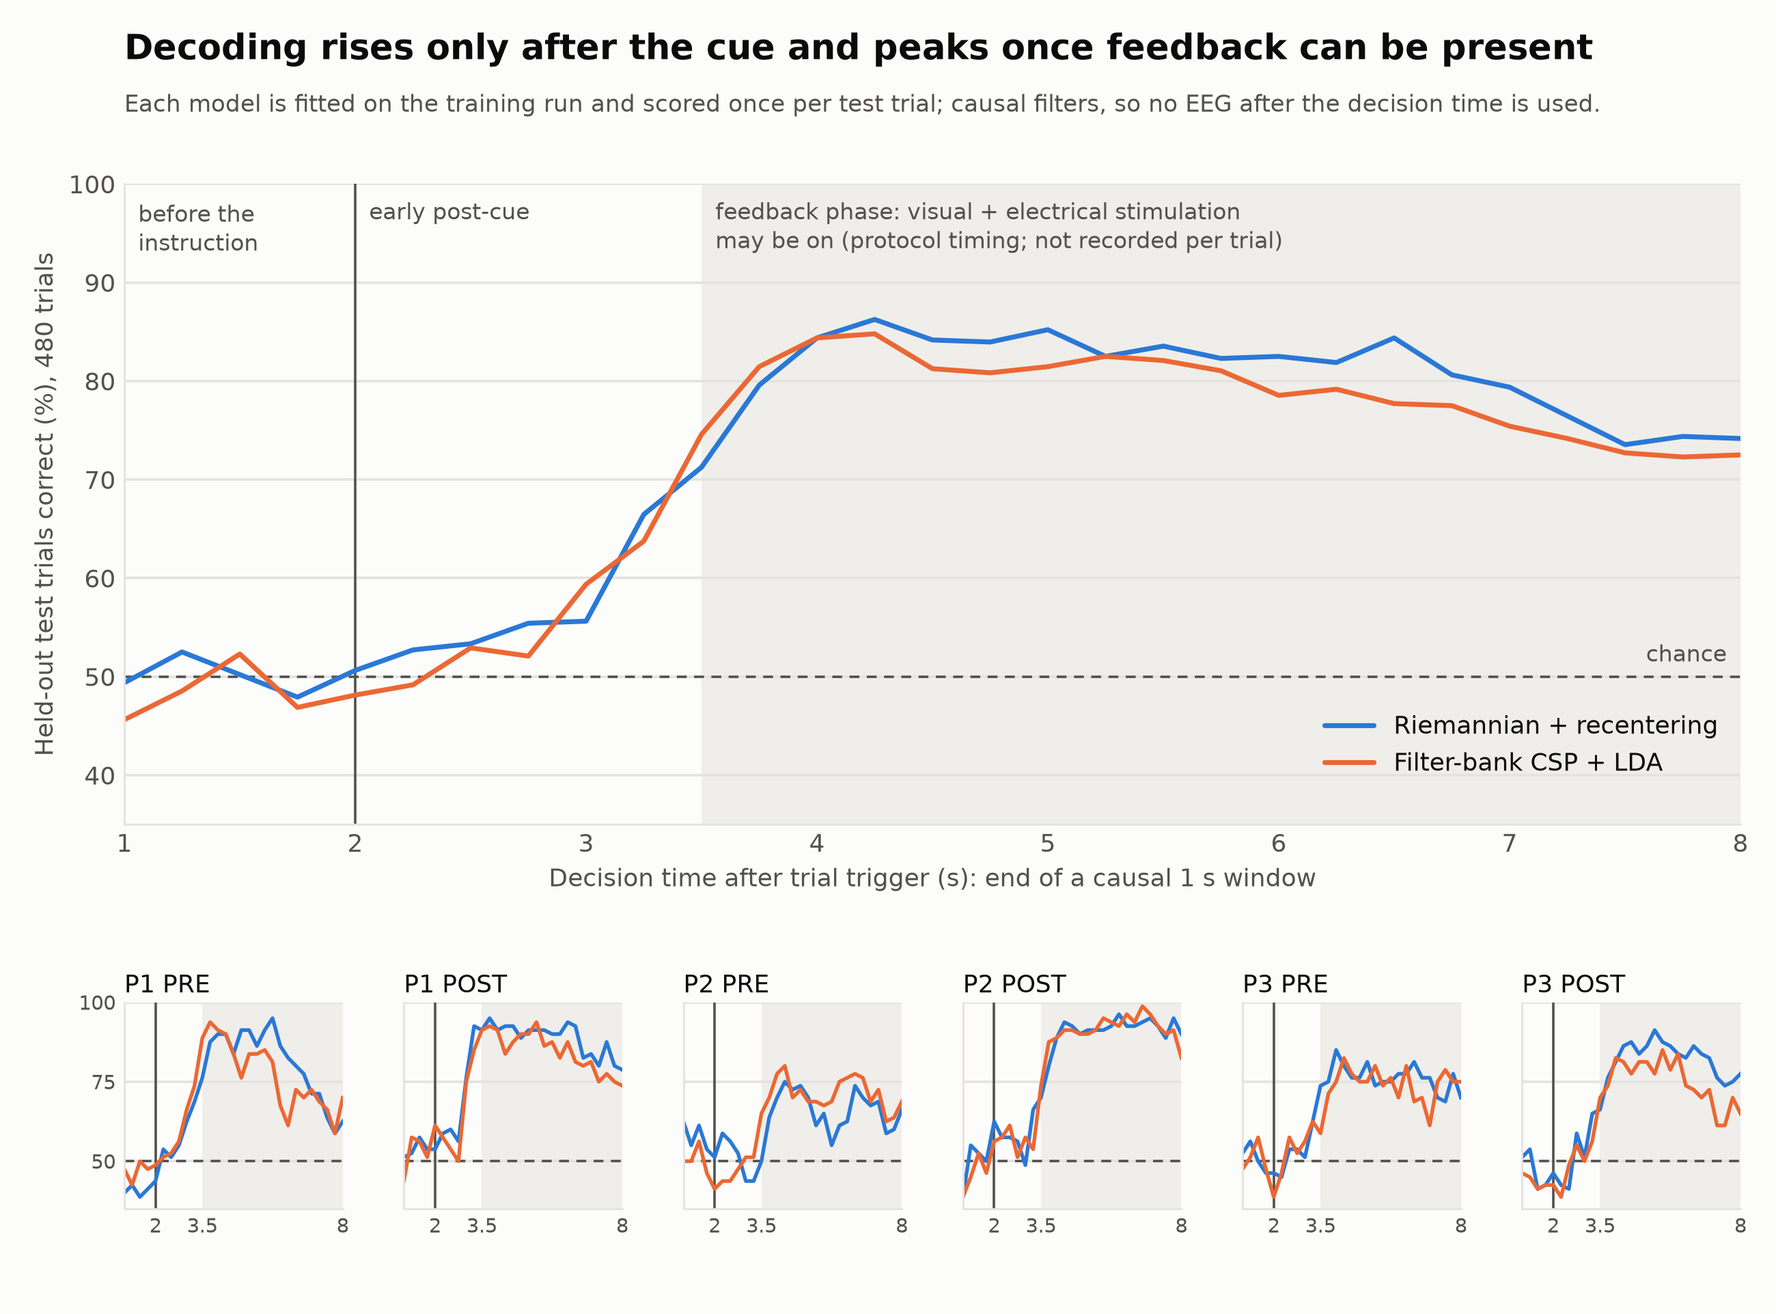
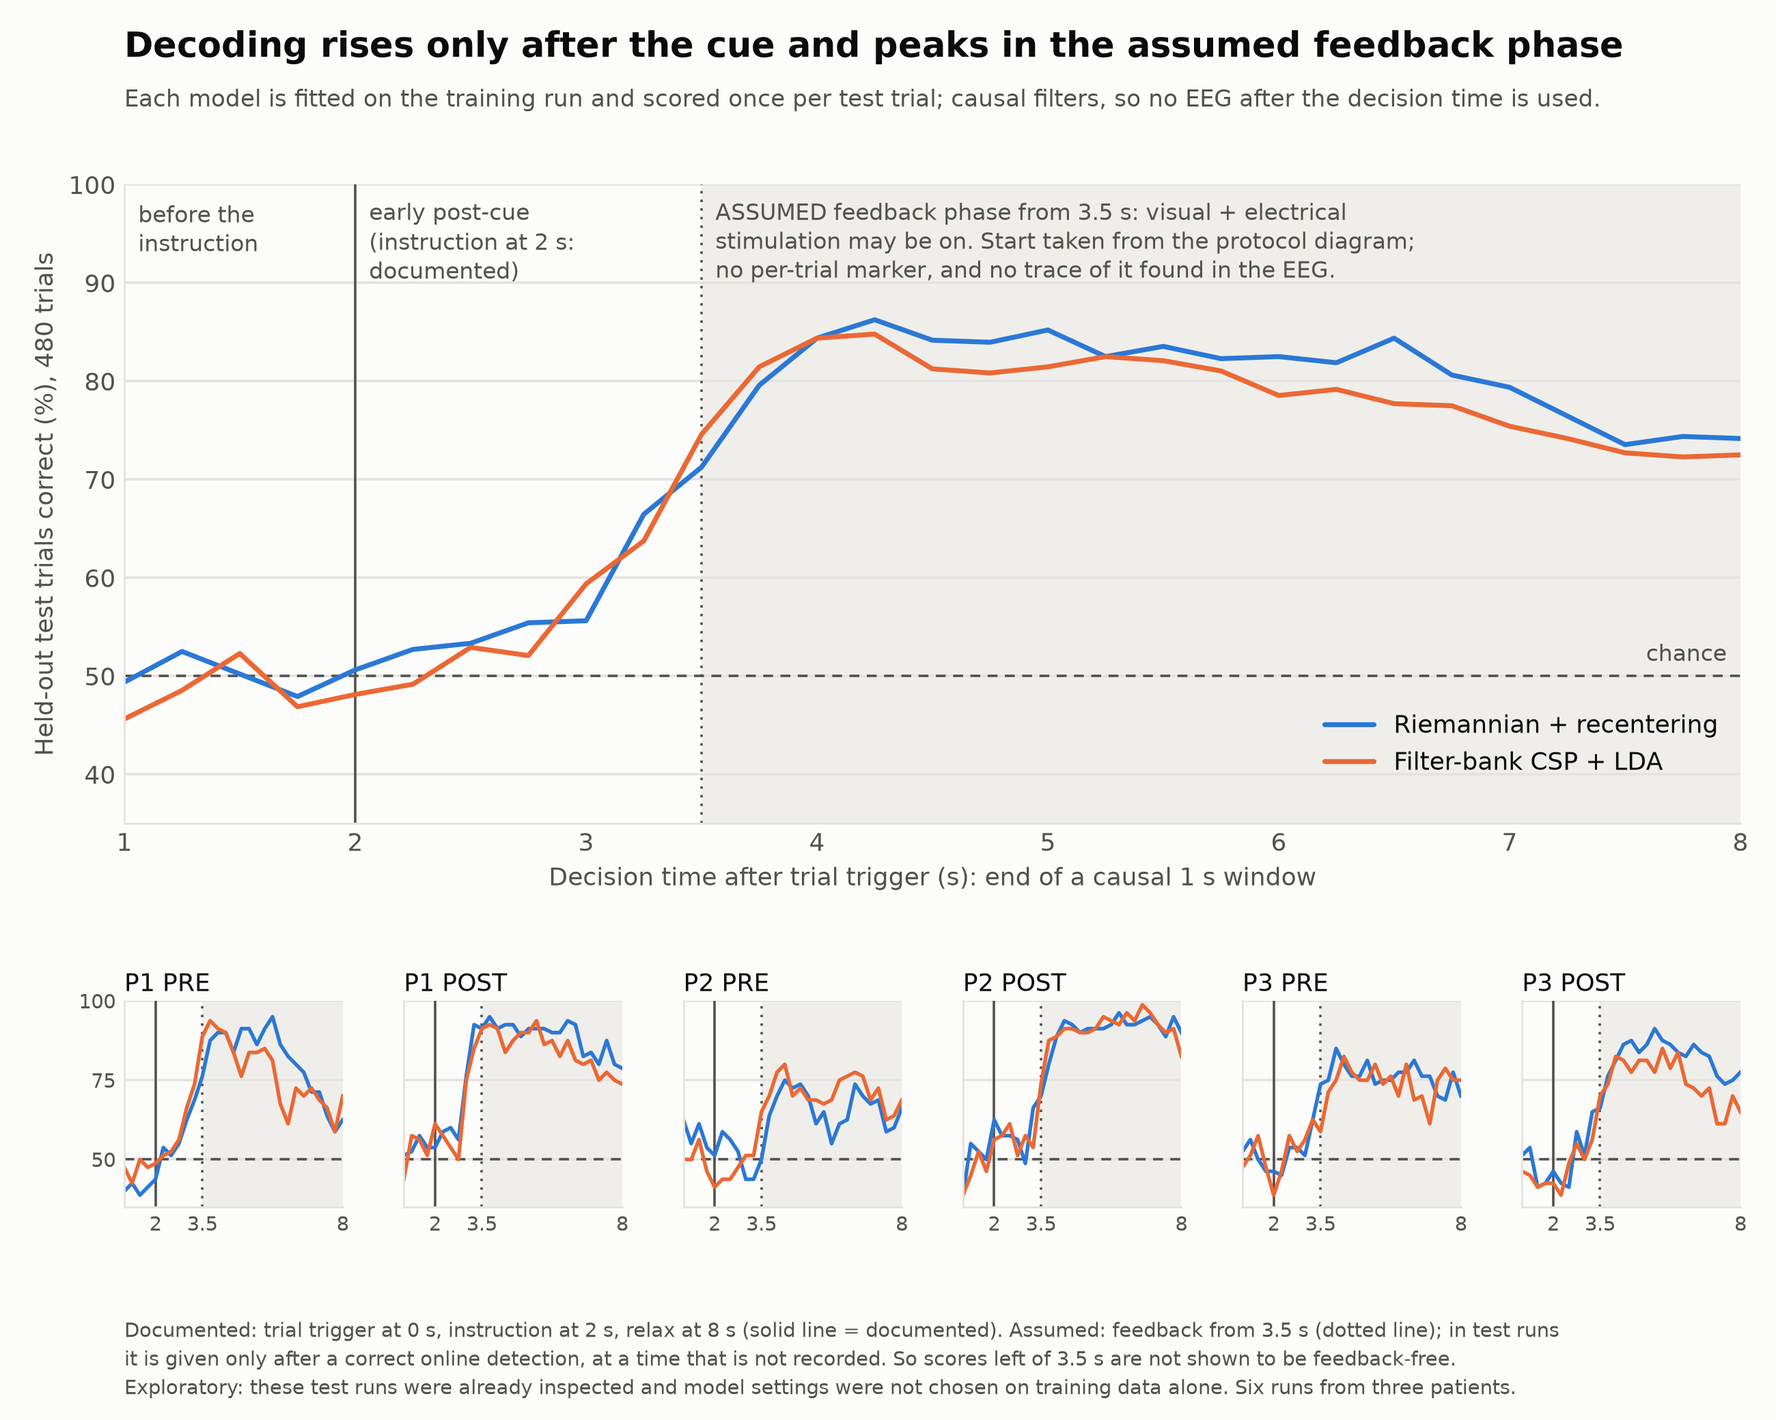
Confirm channel order by global search; probe feedback timing; mark figure assumptions
Add an all-orders search and odd/even trial stability to montage-check.
Add feedback-check: stimulation-harmonic and evoked-response probes, which
find no trace of feedback onset. Mark documented and assumed timings in
the decision-time figure.

diff --git a/stroke_rehab/plotting.py b/stroke_rehab/plotting.py
@@ -70,7 +70,9 @@ def plot_decision_time(csv_path, png_path, *, theme="light", cue_s=2.0, feedback
     def dress(ax, small=False):
         ax.set_facecolor(c["surface"])
         ax.axvspan(feedback_s, 8, color=c["band"], linewidth=0, zorder=0)
+        # Solid: documented in the dataset notes. Dotted: assumed, not recorded.
         ax.axvline(cue_s, color=c["ink2"], linewidth=1)
+        ax.axvline(feedback_s, color=c["ink2"], linewidth=1, linestyle=(0, (1, 2.5)))
         ax.axhline(50, color=c["ink2"], linewidth=1, linestyle=(0, (4, 3)))
         ax.set(xlim=(1, 8), ylim=(35, 100), xticks=range(1, 9),
                yticks=(50, 75, 100) if small else (40, 50, 60, 70, 80, 90, 100))
@@ -80,9 +82,9 @@ def plot_decision_time(csv_path, png_path, *, theme="light", cue_s=2.0, feedback
         ax.spines[["left", "bottom"]].set_color(c["grid"])
         ax.tick_params(colors=c["ink2"], length=0, labelsize=8 if small else 10)
 
-    fig = plt.figure(figsize=(10, 7.4), facecolor=c["surface"])
+    fig = plt.figure(figsize=(10, 8.0), facecolor=c["surface"])
     grid = fig.add_gridspec(2, 6, height_ratios=(3.1, 1), hspace=0.42, wspace=0.28,
-                            left=0.07, right=0.98, top=0.86, bottom=0.08)
+                            left=0.07, right=0.98, top=0.87, bottom=0.15)
     main = fig.add_subplot(grid[0, :])
     dress(main)
     for model, label, color in series:
@@ -91,18 +93,27 @@ def plot_decision_time(csv_path, png_path, *, theme="light", cue_s=2.0, feedback
     main.set_ylabel("Held-out test trials correct (%), 480 trials", color=c["ink2"])
     main.set_xlabel("Decision time after trial trigger (s): end of a causal 1 s window",
                     color=c["ink2"])
-    for x, text in ((1.06, "before the\ninstruction"), (cue_s + 0.06, "early post-cue"),
-                    (feedback_s + 0.06, "feedback phase: visual + electrical stimulation\n"
-                     "may be on (protocol timing; not recorded per trial)")):
+    for x, text in ((1.06, "before the\ninstruction"),
+                    (cue_s + 0.06, "early post-cue\n(instruction at 2 s:\ndocumented)"),
+                    (feedback_s + 0.06, "ASSUMED feedback phase from 3.5 s: visual + electrical\n"
+                     "stimulation may be on. Start taken from the protocol diagram;\n"
+                     "no per-trial marker, and no trace of it found in the EEG.")):
         main.text(x, 98.5, text, color=c["ink2"], fontsize=9, va="top", linespacing=1.3)
     main.text(7.94, 51, "chance", color=c["ink2"], fontsize=9, ha="right", va="bottom")
     main.legend(loc="lower right", frameon=False, fontsize=10, labelcolor=c["ink"],
                 bbox_to_anchor=(1.0, 0.04))
-    fig.text(0.07, 0.955, "Decoding rises only after the cue and peaks once feedback can be present",
+    fig.text(0.07, 0.96, "Decoding rises only after the cue and peaks in the assumed feedback phase",
              color=c["ink"], fontsize=14, fontweight="bold")
-    fig.text(0.07, 0.915, "Each model is fitted on the training run and scored once per test trial; "
+    fig.text(0.07, 0.925, "Each model is fitted on the training run and scored once per test trial; "
              "causal filters, so no EEG after the decision time is used.",
              color=c["ink2"], fontsize=9.5)
+    fig.text(0.07, 0.012,
+             "Documented: trial trigger at 0 s, instruction at 2 s, relax at 8 s (solid line = documented). "
+             "Assumed: feedback from 3.5 s (dotted line); in test runs\nit is given only after a correct "
+             "online detection, at a time that is not recorded. So scores left of 3.5 s are not shown to be "
+             "feedback-free.\nExploratory: these test runs were already inspected and model settings were "
+             "not chosen on training data alone. Six runs from three patients.",
+             color=c["ink2"], fontsize=8, va="bottom", linespacing=1.45)
     for i, session in enumerate((p, s) for p in ("P1", "P2", "P3") for s in ("pre", "post")):
         ax = fig.add_subplot(grid[1, i])
         dress(ax, small=True)

diff --git a/stroke_rehab/timing.py b/stroke_rehab/timing.py
@@ -1,0 +1,82 @@
+"""Can the recordings show when feedback starts? Two label-free probes per file.
+
+The files hold no stimulation marker. The paper states the stimulator runs at
+50 Hz, so with the 50 Hz notch already applied its trace could only survive at
+harmonics: 100 Hz, and 150/200 Hz folded to 106/56 Hz at 256 Hz sampling.
+Probe 1 asks whether power at those lines changes between the pre-instruction
+rest and the nominal feedback phase. Probe 2 asks whether the trial-averaged
+EEG shows a response locked to the nominal feedback start, as it does to the
+instruction. A null result does not mean stimulation was absent or late.
+"""
+from pathlib import Path
+import csv
+
+import numpy as np
+from scipy.signal import butter, sosfiltfilt
+
+from .data import read_recording, session_paths
+
+STIMULATION_LINES_HZ = {"line_100hz": 100.0, "line_106hz_alias_of_150": 106.0,
+                        "line_56hz_alias_of_200": 56.0}
+REST_S = (0.5, 2.0)        # after the attention sound, before the instruction
+FEEDBACK_S = (4.0, 8.0)    # inside the documented feedback phase
+EVENTS_S = {"instruction_2p0s": 2.0, "nominal_feedback_3p5s": 3.5, "relax_8p0s": 8.0}
+EVOKED_SPAN_S = 0.75
+
+
+def _bandpass(recording, low, high):
+    sos = butter(4, (low, high), btype="bandpass", fs=recording.fs, output="sos")
+    return sosfiltfilt(sos, recording.signal, axis=0)
+
+
+def line_change_db(recording, hz, *, half_width=1.0):
+    """Median over trials and channels: feedback-phase power relative to rest (dB)."""
+    power = _bandpass(recording, hz - half_width, hz + half_width) ** 2
+    fs = recording.fs
+    mean = lambda onset, span: power[onset + round(span[0] * fs):
+                                     onset + round(span[1] * fs)].mean(axis=0)
+    ratio = [mean(o, FEEDBACK_S) / mean(o, REST_S) for o in recording.onsets]
+    return float(np.median(10 * np.log10(ratio)))
+
+
+def evoked_ratios(recording):
+    """Size of the trial-median 1-12 Hz response after each event, relative to rest.
+
+    Values near 1 mean nothing is time-locked to that event. Trials too close
+    to the end of the file for the last window are left out of that window.
+    """
+    filtered = _bandpass(recording, 1.0, 12.0)
+    fs = recording.fs
+
+    def size(start, stop):
+        lo, hi = round(start * fs), round(stop * fs)
+        epochs = [filtered[o + lo:o + hi] - filtered[o + round(REST_S[0] * fs):
+                                                     o + round(REST_S[1] * fs)].mean(axis=0)
+                  for o in recording.onsets if o + hi <= len(filtered)]
+        return float(np.sqrt(np.mean(np.median(epochs, axis=0) ** 2)))
+
+    rest = size(REST_S[1] - EVOKED_SPAN_S, REST_S[1])
+    return {name: size(t, t + EVOKED_SPAN_S) / rest for name, t in EVENTS_S.items()}
+
+
+def run_feedback_check(data_root, output_file):
+    rows = []
+    for patient, stage, train_path, test_path in session_paths(data_root):
+        for run, path in (("training", train_path), ("test", test_path)):
+            recording = read_recording(path)
+            row = dict(patient=patient, session=stage, run=run)
+            row |= {f"{name}_feedback_vs_rest_db": round(line_change_db(recording, hz), 2)
+                    for name, hz in STIMULATION_LINES_HZ.items()}
+            row |= {f"evoked_{name}_vs_rest": round(value, 2)
+                    for name, value in evoked_ratios(recording).items()}
+            rows.append(row)
+            print(f"{patient} {stage} {run}: " + ", ".join(
+                f"{k.split('_feedback')[0].split('_vs_rest')[0]} {v}"
+                for k, v in list(row.items())[3:]), flush=True)
+    path = Path(output_file)
+    path.parent.mkdir(parents=True, exist_ok=True)
+    with path.open("w", newline="") as stream:
+        writer = csv.DictWriter(stream, fieldnames=list(rows[0]))
+        writer.writeheader()
+        writer.writerows(rows)
+    return rows

diff --git a/stroke_rehab/montage.py b/stroke_rehab/montage.py
@@ -51,13 +51,13 @@ def _distances(layout):
     return np.linalg.norm(xy[:, None] - xy[None], axis=-1)
 
 
-def median_trial_correlation(recording, band=(8.0, 30.0)):
+def median_trial_correlation(recording, band=(8.0, 30.0), trials=slice(None)):
     """Median over trials of the channel correlation matrix (robust to artefacts)."""
     sos = butter(4, band, btype="bandpass", fs=recording.fs, output="sos")
     filtered = sosfiltfilt(sos, recording.signal, axis=0)
     span = slice(recording.fs, 8 * recording.fs)
     return np.median([np.corrcoef(filtered[onset:][span].T)
-                      for onset in recording.onsets], axis=0)
+                      for onset in recording.onsets[trials]], axis=0)
 
 
 def layout_fit(correlation, layout, *, permutations=2000, seed=27):
@@ -100,6 +100,45 @@ def swaps_improving_fit(correlation, layout):
     return int(better)
 
 
+def mirrored(layout):
+    """Column order of the left-right mirror image of a layout."""
+    position = {GRID[name]: i for i, name in enumerate(layout)}
+    return [position[-GRID[name][0], GRID[name][1]] for name in layout]
+
+
+def global_search(correlation, layout, *, restarts=20, seed=27):
+    """Search all channel orders for the best fit, starting from random orders.
+
+    Each restart swaps channel pairs for as long as a swap improves the fit.
+    Returns whether the best order found is the stated one, its mirror image
+    (which fits identically), or something else, with that order's fit.
+    """
+    upper = np.triu_indices(len(layout), 1)
+    distance = _distances(layout)
+    fit = lambda order: spearmanr(distance[np.ix_(order, order)][upper],
+                                  correlation[upper]).statistic
+    rng = np.random.default_rng(seed)
+    best_order, best = None, np.inf
+    for _ in range(restarts):
+        order = rng.permutation(len(layout))
+        current = fit(order)
+        while True:
+            options = []
+            for i, j in combinations(range(len(layout)), 2):
+                trial = order.copy()
+                trial[[i, j]] = order[[j, i]]
+                options.append((fit(trial), trial))
+            value, candidate = min(options, key=lambda item: item[0])
+            if value >= current - 1e-12:
+                break
+            order, current = candidate, value
+        if current < best:
+            best_order, best = order, current
+    found = ("stated" if np.array_equal(best_order, np.arange(len(layout)))
+             else "mirror" if np.array_equal(best_order, mirrored(layout)) else "other")
+    return found, float(best)
+
+
 def notch_hz(recording):
     """Mains notch already applied to the file: 50 or 60 Hz, whichever is emptier."""
     frequency, density = welch(recording.signal[recording.onsets[0]:], recording.fs,
@@ -123,6 +162,14 @@ def run_montage_check(data_root, output_file, *, permutations=2000, seed=27):
             row["best_layout"] = min(LAYOUTS, key=lambda k: row[f"{k}_rho"])
             row["swaps_improving_best_layout"] = swaps_improving_fit(
                 correlation, LAYOUTS[row["best_layout"]])
+            assigned = layout_for(path)
+            found, best = global_search(correlation, assigned, seed=seed)
+            row["global_search_finds"] = found
+            row["global_search_rho"] = round(best, 3)
+            halves = [layout_fit(median_trial_correlation(recording, trials=half),
+                                 assigned, permutations=1)[0]
+                      for half in (slice(0, None, 2), slice(1, None, 2))]
+            row["odd_even_trial_rho"] = "/".join(f"{h:.3f}" for h in halves)
             row["notch_hz"] = notch_hz(recording)
             row["assumed_layout"] = FILE_LAYOUT.get(Path(path).stem, "paper")
             # Smallest 8-30 Hz amplitude marks the side nearest the reference

diff --git a/tests/test_timing.py b/tests/test_timing.py
@@ -1,0 +1,31 @@
+import numpy as np
+
+from stroke_rehab.data import Recording
+from stroke_rehab.timing import evoked_ratios, line_change_db
+
+
+def _recording(add_line=False, add_evoked=False, fs=256, trials=20):
+    rng = np.random.default_rng(4)
+    onsets = fs * (2 + 10 * np.arange(trials))
+    signal = rng.normal(size=(onsets[-1] + 10 * fs, 4))
+    time = np.arange(8 * fs) / fs
+    for onset in onsets:
+        if add_line:  # 100 Hz stimulation harmonic switched on at 3.5 s
+            signal[onset:onset + 8 * fs] += (3 * np.sin(2 * np.pi * 100 * time)
+                                             * (time >= 3.5))[:, None]
+        if add_evoked:  # a 5 Hz burst locked to 3.5 s
+            signal[onset:onset + 8 * fs] += (4 * np.sin(2 * np.pi * 5 * (time - 3.5))
+                                             * ((time >= 3.5) & (time < 4.0)))[:, None]
+    return Recording(signal, np.tile([1, -1], trials // 2), onsets, fs)
+
+
+def test_line_probe_detects_a_stimulation_harmonic_only_when_present():
+    assert abs(line_change_db(_recording(), 100.0)) < 1.5
+    assert line_change_db(_recording(add_line=True), 100.0) > 10
+
+
+def test_evoked_probe_is_specific_to_the_event_that_has_a_response():
+    quiet = evoked_ratios(_recording())
+    assert all(0.4 < value < 2.5 for value in quiet.values())
+    locked = evoked_ratios(_recording(add_evoked=True))
+    assert locked["nominal_feedback_3p5s"] > 5 * locked["instruction_2p0s"]

diff --git a/tests/test_riemann.py b/tests/test_riemann.py
@@ -1,7 +1,8 @@
 import numpy as np
 
 from stroke_rehab.data import Recording
-from stroke_rehab.montage import GRID, LAYOUTS, layout_fit, layout_for
+from stroke_rehab.montage import (GRID, LAYOUTS, global_search, layout_fit, layout_for,
+                                  mirrored)
 from stroke_rehab.riemann import (RecenteredTangentSpace, filtered_trials, geodesic,
                                   riemann_mean, window_covariances)
 
@@ -63,3 +64,14 @@ def test_layout_fit_prefers_the_generating_layout():
     assert layout_for("x/P2_post_test.mat") == LAYOUTS["paper"]
     assert layout_for("x/P1_pre_test.mat").index("C3") == 6
     assert all(sorted(layout) == sorted(set(layout)) for layout in LAYOUTS.values())
+
+
+def test_global_search_recovers_a_scrambled_order_up_to_mirror():
+    layout = LAYOUTS["paper"]
+    xy = np.array([GRID[name] for name in layout], dtype=float)
+    correlation = np.exp(-np.linalg.norm(xy[:, None] - xy[None], axis=-1) / 3)
+    assert global_search(correlation, layout, restarts=6)[0] in ("stated", "mirror")
+    flip = mirrored(layout)
+    assert [layout[i] for i in flip][:5] == ["FC6", "FC2", "FCz", "FC1", "FC5"]
+    scrambled = np.random.default_rng(3).permutation(16)
+    assert global_search(correlation[np.ix_(scrambled, scrambled)], layout, restarts=6)[0] == "other"

diff --git a/stroke_rehab/cli.py b/stroke_rehab/cli.py
@@ -54,6 +54,8 @@ def main(argv=None):
              "results/model_comparison.csv"),
             ("decision-time", "Causal accuracy against decision time, both models",
              "results/decision_time.csv"),
+            ("feedback-check", "Look for a stimulation trace or evoked response at feedback onset",
+             "results/feedback_timing_check.csv"),
             ("lateralize", "Descriptive C3/C4 beta change with per-file channel layout",
              "results/lateralization.csv"),
             ("transfer", "Decode each session with a model from the patient's other session",
@@ -164,6 +166,9 @@ def main(argv=None):
     elif args.command == "decision-time":
         from .comparison import run_decision_time
         run_decision_time(args.data_dir, args.output)
+    elif args.command == "feedback-check":
+        from .timing import run_feedback_check
+        run_feedback_check(args.data_dir, args.output)
     elif args.command == "lateralize":
         from .lateralization import run_lateralization
         print(f"Wrote {len(run_lateralization(args.data_dir, args.output))} rows")

diff --git a/README.md b/README.md
@@ -275,6 +275,7 @@ at 2 s. Feedback onset is unknown, including for the shorter window.
 
 ```bash
 stroke-rehab montage-check       # results/montage_check.csv
+stroke-rehab feedback-check      # results/feedback_timing_check.csv
 stroke-rehab compare             # results/model_comparison.csv
 stroke-rehab decision-time       # results/decision_time.csv
 stroke-rehab plot-decision-time  # results/decision_time.png (--theme dark for slides)
@@ -328,9 +329,33 @@ are fitted on the training run and scored on the test run every 0.25 s.
 | Filter-bank CSP | 48.1% | 59.4% | 74.6% | 84.8% | 77.7% | 72.5% |
 | Riemannian | 50.6% | 55.6% | 71.2% | 86.2% | 84.4% | 74.2% |
 
-Both models are at chance up to the instruction at 2 s. A 65–95 Hz power
-check found no consistent stimulation trace from which feedback onset could be
-timed, so the interval before 3.5 s is labelled "early post-cue".
+Both models are at chance up to the instruction at 2 s. The figure marks
+what is documented with a solid line (instruction at 2 s) and what is assumed
+with a dotted line (feedback from 3.5 s), and repeats both in its footer.
+
+### Feedback timing: not recoverable from the recordings
+
+`stroke-rehab feedback-check` asks, without labels, whether each file shows
+when stimulation starts. Neither probe finds it.
+
+- **Stimulation lines.** The paper gives a 50 Hz stimulator. The 50 Hz notch
+  removes its fundamental, so a trace could only survive at harmonics: 100 Hz,
+  and 150/200 Hz folded to 106/56 Hz at this sampling rate. Power at those
+  lines in the feedback phase (4–8 s) differs from rest (0.5–2 s) by −0.8 to
+  +2.0 dB across all twelve files, with no consistent sign. The strong 106 Hz
+  line present in ten files is constant through the trial, so it is mains
+  interference, not stimulation.
+- **Evoked response.** The trial-median 1–12 Hz response in the 0.75 s after
+  the instruction is 1.2 to 3.0 times rest in the P1 and P2 files, and after
+  the relax cue up to 5.7 times in P1. After the assumed feedback start at
+  3.5 s it is 0.7 to 1.3 times rest in every file: nothing is time-locked there.
+
+This does not show that feedback was absent or late; it shows the 3.5 s start
+cannot be confirmed from the data. It stays an assumption from
+`DatasetInformation.pdf` until the organizer supplies stimulation timestamps.
+In test runs feedback is also conditional on the online classifier, at a time
+that is not recorded, so the interval before 3.5 s is labelled "early
+post-cue", never "feedback-free".
 
 ### Channel order differs between files
 
@@ -352,6 +377,11 @@ correlation (8–30 Hz, median over trials; no labels are used) for each layout.
   13 and 14 (CP5, CP1) fit clearly better exchanged; C3 and C4 are unaffected.
 - **Order, not only electrode set:** with the layout assigned to each file,
   none of the 120 possible two-channel swaps improves the fit in any file.
+- **Search over all orders:** starting from 20 random channel orders per file
+  and swapping pairs while the fit improves, the best order found is the
+  assigned one or its mirror image in all twelve files.
+- **Stable within a run:** odd and even trials give the same fit to within
+  0.02 in every file.
 - **What this cannot show:** a left-right mirrored layout fits identically. In
   every file the lowest-amplitude channel is on the right edge, which agrees
   with the paper's right-earlobe reference but does not prove orientation. The
